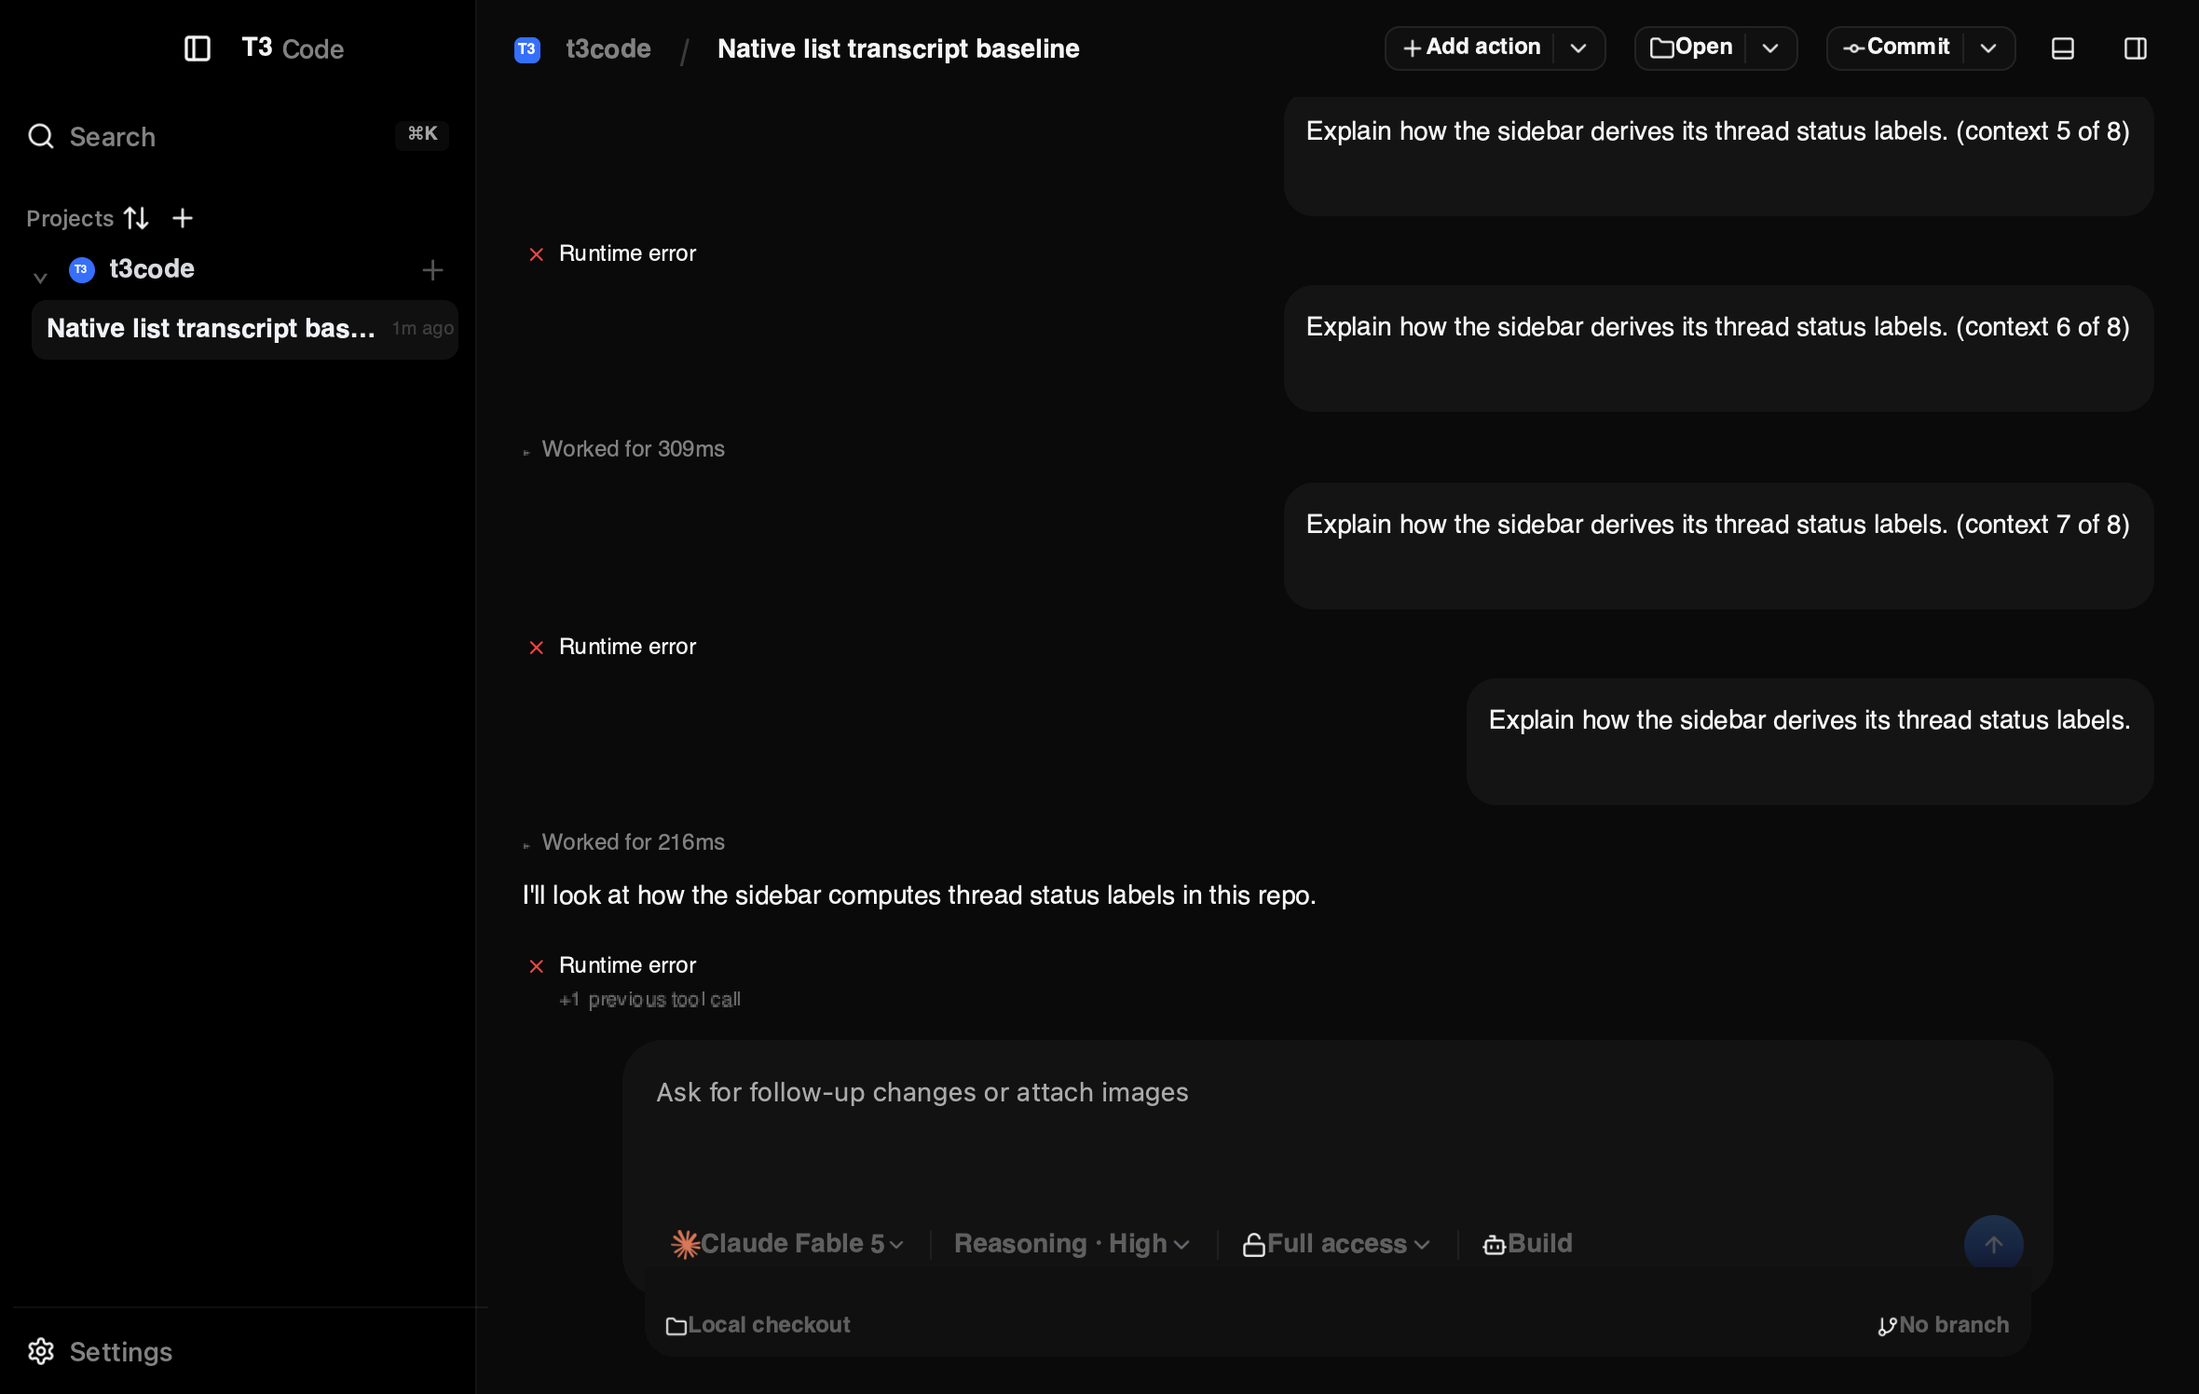
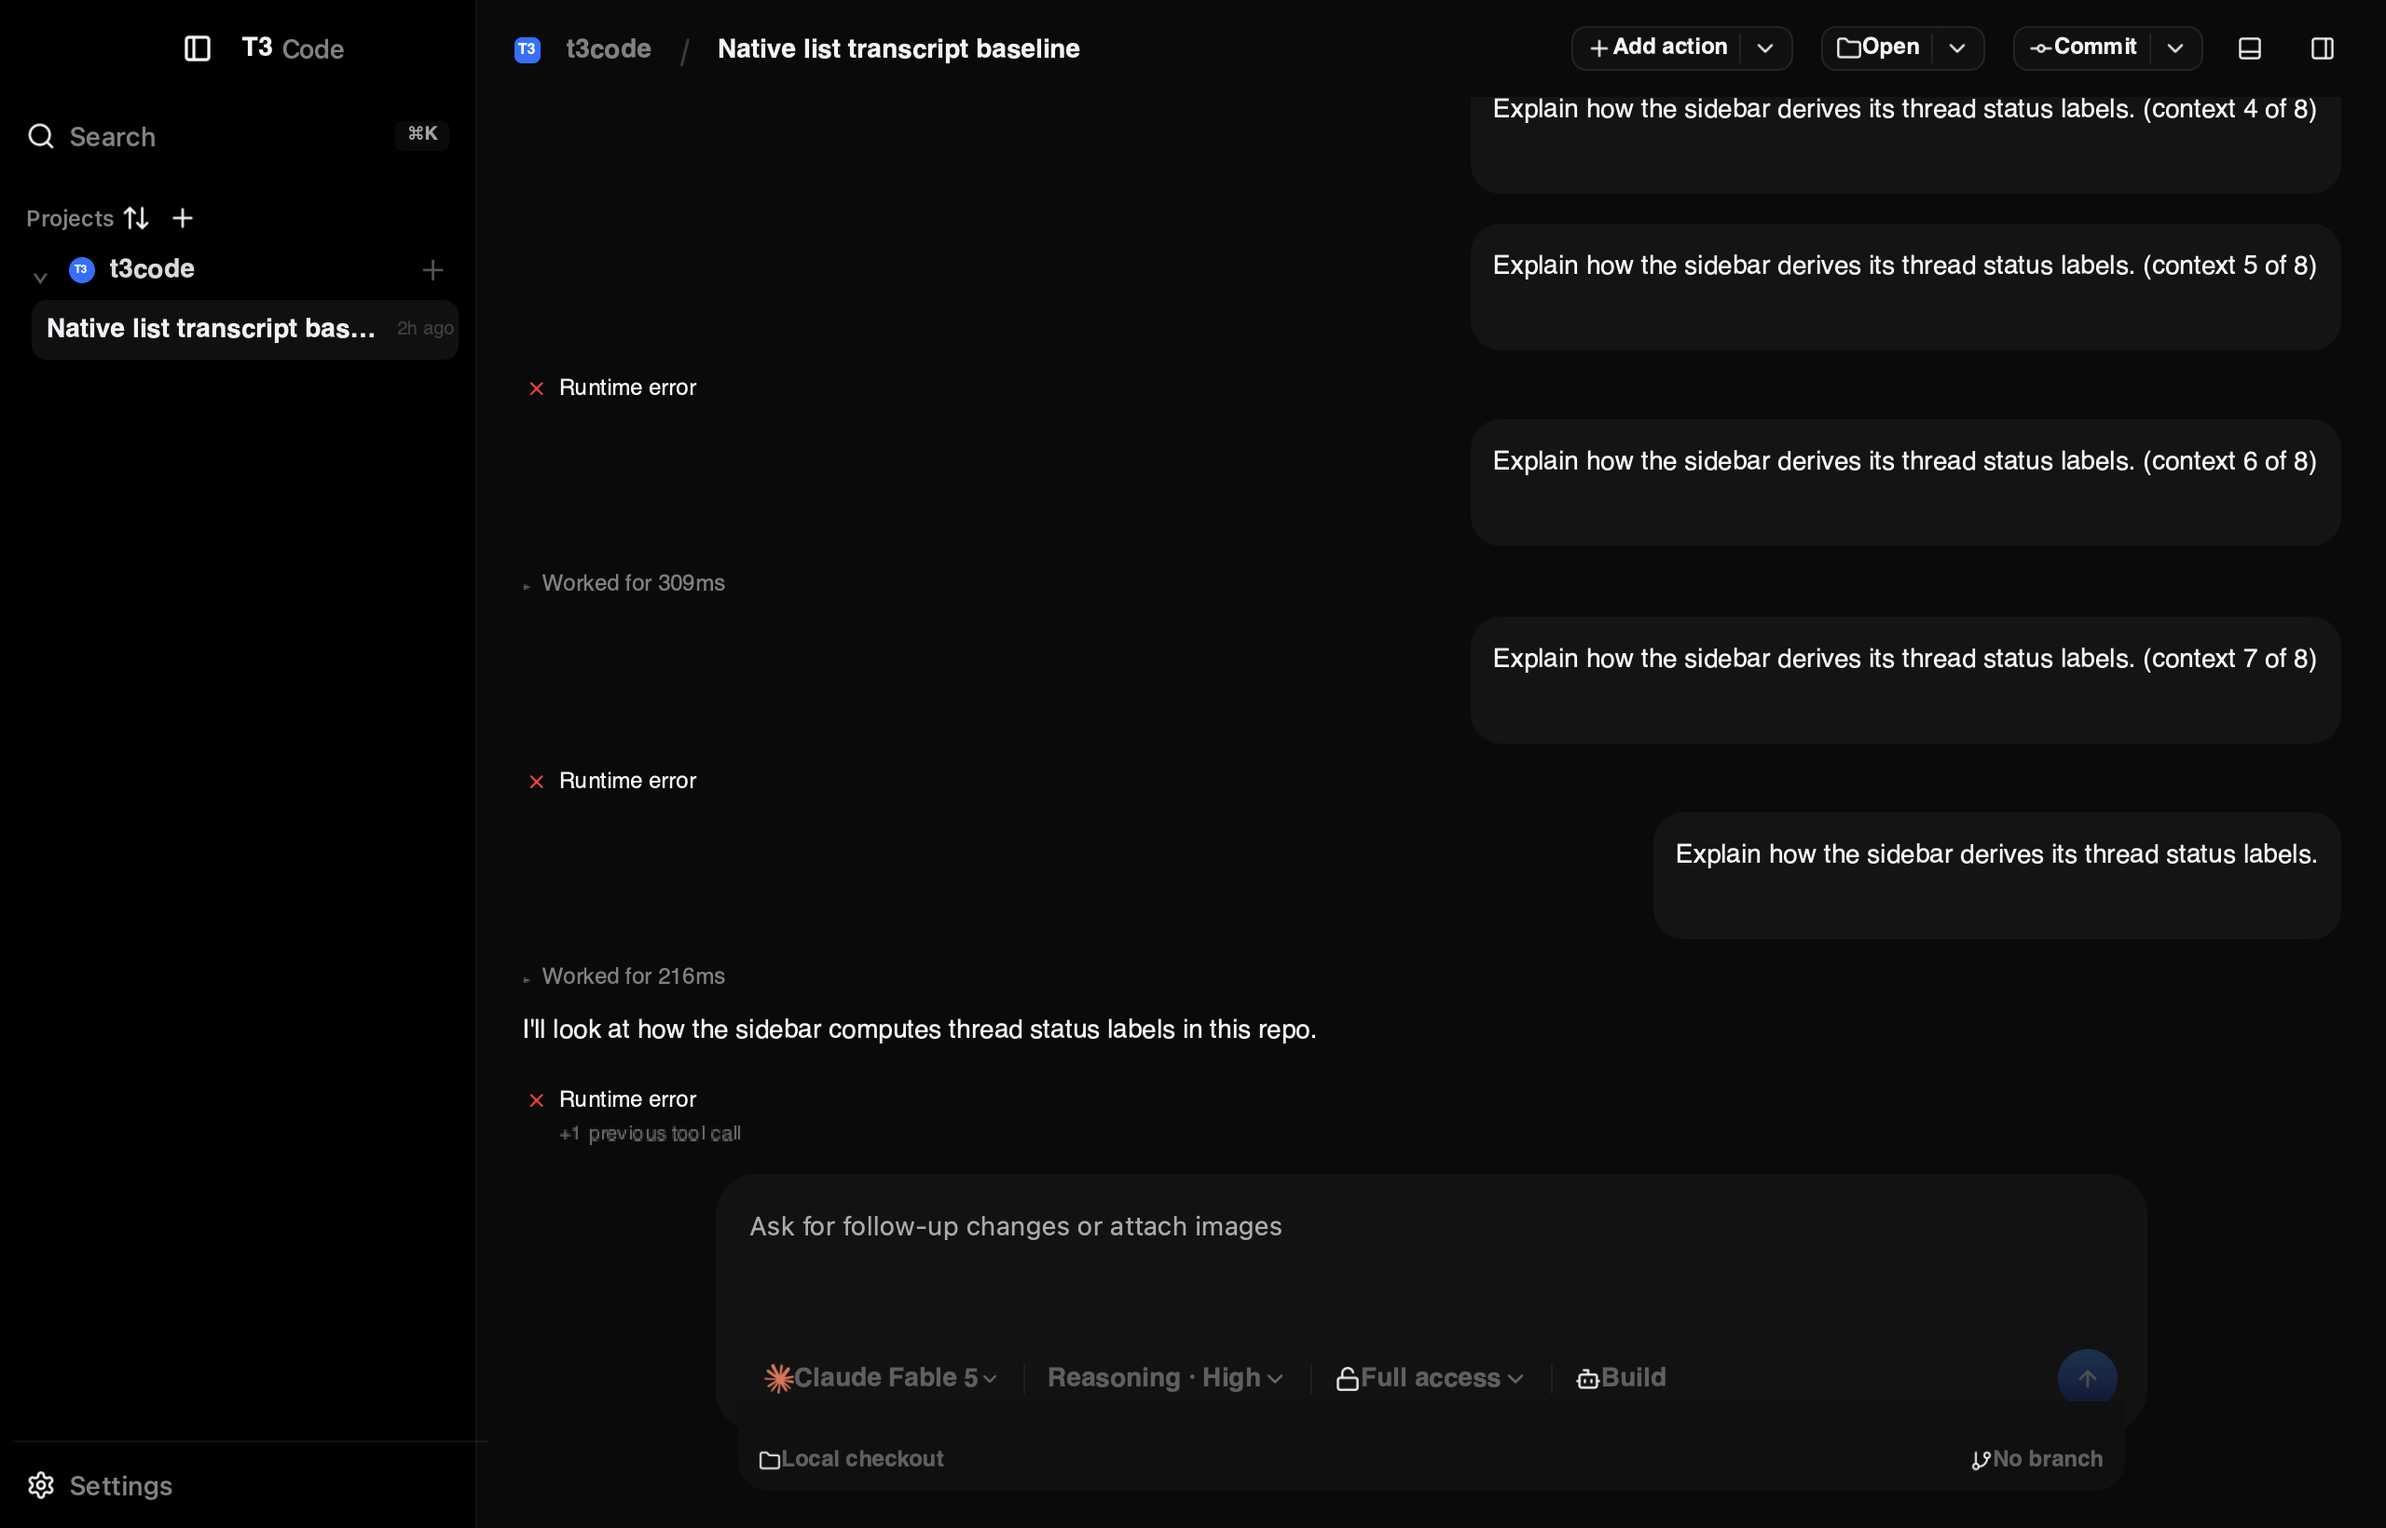
fix(lynxtron): correct transcript evidence viewports; add 1440x900 capture
The Lynxtron window size comes from T3_LYNXTRON_VIEWPORT_WIDTH/HEIGHT
(default 1180x748), which the first capture pass did not set — the P2
transcript captures were therefore mislabeled 1280x820. The list-host
files are renamed to lynx-1180x748.* with a correction note, and the
scroll-machine captures were retaken from the same snapshot at true
1280x820 (01 initial-bottom; 02 after re-asserted tap interactions in a
fresh session) plus a new 1440x900 capture (03) — all with zero DevTool
renderer errors. Both standard viewports now cover the native <list>
transcript surface.

diff --git a/apps/lynxtron/evidence/2026-07-29/P2/transcript/scroll-machine/notes.md b/apps/lynxtron/evidence/2026-07-29/P2/transcript/scroll-machine/notes.md
@@ -4,7 +4,13 @@
 - Task: P2-S3 — follow/detach scroll state machine and long-transcript
   runtime interactions (slice-level tier)
 - Candidate: in-monorepo Lynxtron production bundle (2,108.1 kB)
-- Viewport: 1280 × 820 logical; theme dark
+- Viewports: 1280 × 820 (captures 01/02, 2560 × 1640 physical) and
+  1440 × 900 (capture 03, 2880 × 1800 physical), set via
+  `T3_LYNXTRON_VIEWPORT_WIDTH/HEIGHT`; theme dark. CORRECTION 2026-07-29:
+  the first pass of these captures ran at the 1180 × 748 default because the
+  env vars were unset; all three captures were retaken at the labeled sizes
+  from the same snapshot (01/02 re-asserted their tap interactions in fresh
+  sessions before their screenshots).
 - Fixture: `prepare-transcript-visual-state.mjs --prompt-count 8` — eight real
   prompts through the production connector (earlier ones interrupted after
   their user message persisted, the final one accumulated provider work);
@@ -37,6 +43,11 @@ unit tests cover detach, reattach, reset, identity, and custom thresholds
    the bottom through the layout shift, demonstrating that layout-sourced
    scroll offsets do not detach follow. Zero renderer errors.
 
+3. `03-initial-bottom-1440x900.jpg` — fresh 1440 × 900 session over the same
+   snapshot opens pinned to the transcript end with the same row set; zero
+   renderer errors. Both standard viewports are now covered for the
+   `<list>` transcript surface.
+
 ## Registered limitation (R12)
 
 The user-scroll detach → "Jump to latest" pill → tap-to-reattach path could
@@ -55,6 +66,6 @@ phase-exit work gated on R12 or an approved OS-input session.
 - client-runtime transcript tests: 17 passed.
 - Web typecheck: clean; lynxtron app typecheck: unchanged 233 pre-existing.
 - Lynx production build: pass (2,108.1 kB).
-- Both captures: zero DevTool renderer errors.
+- All three captures: zero DevTool renderer errors.
 - `verify-transcript-scroll.mjs` documents the intended headless pass; it
   currently fails at the drag step because of R12, not a product defect.

diff --git a/apps/lynxtron/evidence/2026-07-29/P2/transcript/list-host/notes.md b/apps/lynxtron/evidence/2026-07-29/P2/transcript/list-host/notes.md
@@ -8,9 +8,14 @@
   `docs/plans/00-execution-index.md`; the full dual-viewport battery is due at
   the T6/T7/T8 phase exits.
 - Candidate: in-monorepo Lynxtron production bundle (2,107.2 kB main bundle)
-- Viewport: 1280 × 820 logical (capture reports 2360 × 1496 physical content)
+- Viewport: **1180 × 748 logical** (2360 × 1496 physical). CORRECTION
+  2026-07-29: this capture was originally mislabeled 1280 × 820 — the window
+  size comes from `T3_LYNXTRON_VIEWPORT_WIDTH/HEIGHT` (default 1180 × 748),
+  which this session did not set. Files renamed to `lynx-1180x748.*`; the
+  correctly sized 1280 × 820 and 1440 × 900 captures of the same surface are
+  under `../scroll-machine/`.
 - Theme: dark
-- Snapshot: see `lynx-1280x820.capture.json` (`snapshot` field); fixture
+- Snapshot: see `lynx-1180x748.capture.json` (`snapshot` field); fixture
   manifest `transcriptFixture` records thread id, prompt, and turn state.
 
 ## Fixture
@@ -25,7 +30,7 @@ the connector disposed, so on relaunch the thread resumes with
 
 ## What the capture proves
 
-`lynx-1280x820.jpg` (fresh session; screenshot taken before any other
+`lynx-1180x748.jpg` (fresh session; screenshot taken before any other
 inspection; zero DevTool renderer errors — the capture script fails otherwise):
 
 - The transcript renders through the native `<list>` element with one
